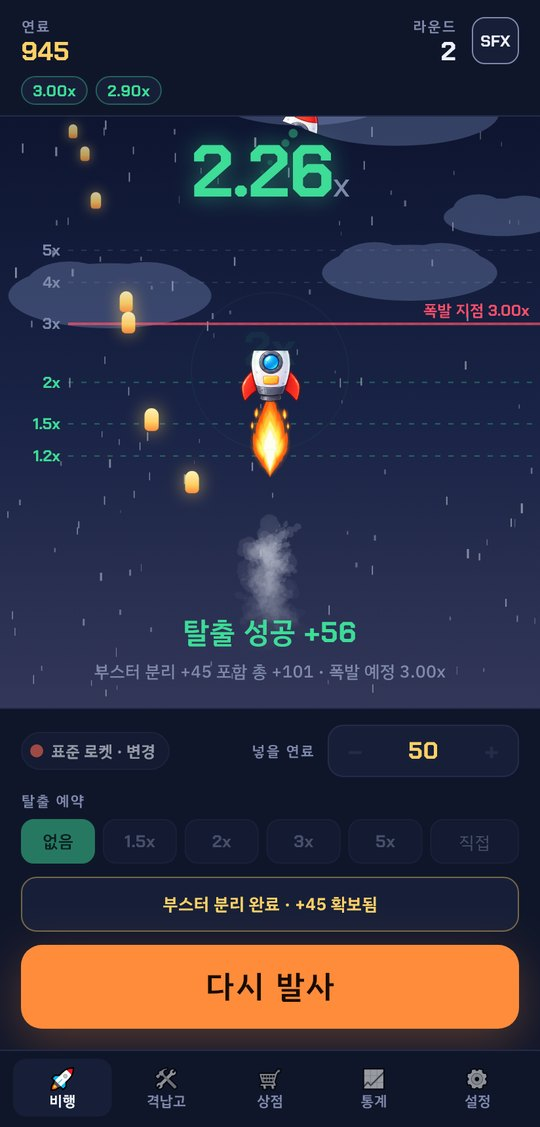
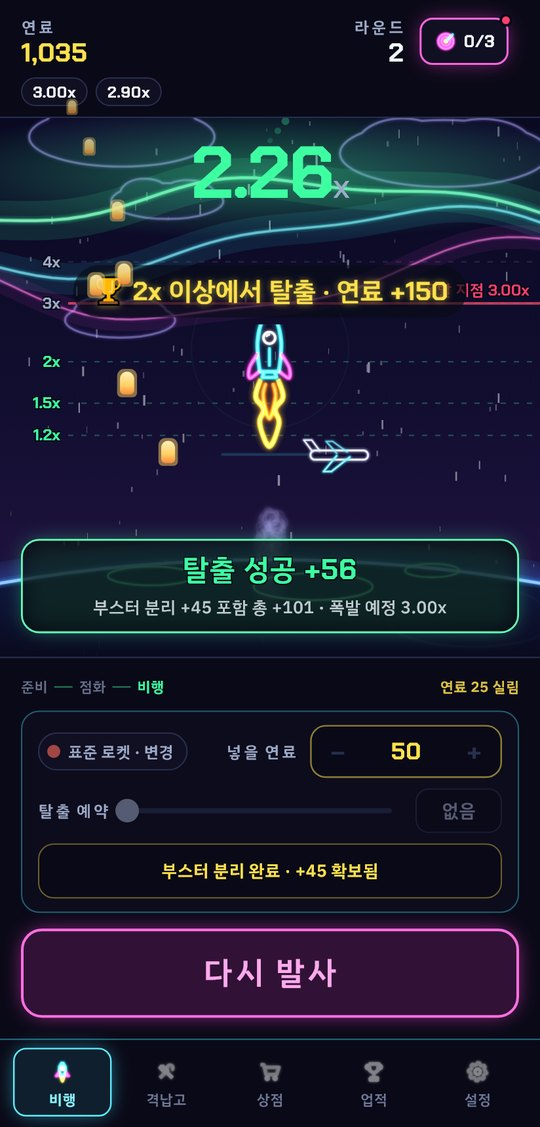
로켓 탈출 소개 페이지·썸네일을 네온사인 테마로
- 스크린샷 4장을 실제 게임 네온 렌더로 바꾸고 고스트 레이스 화면을 더했다.
- 게임 목록 썸네일(1024x500): 네온 로켓·제목·배수.
- 소개 페이지 머리 색조를 노을 주황 → 남보라 밤 + 자홍 빛, 강조색 청록·자홍. 게임 목록 카드 강조색도 청록.

diff --git a/rocketescape/index.html b/rocketescape/index.html
@@ -19,12 +19,14 @@
 <link rel="stylesheet" href="../games/game.css">
 
 <style>
-  /* 머리: 노을에서 심우주로 */
+  /* 머리: 네온사인 밤하늘 (게임 화면과 같은 남보라 + 아래 자홍 빛) */
   .hero {
     background:
-      radial-gradient(90% 70% at 50% 115%, rgba(255, 140, 58, .22), transparent 60%),
-      linear-gradient(180deg, #05040e 0%, #101c3e 70%, #2d3f6e 130%);
+      radial-gradient(90% 70% at 50% 115%, rgba(255, 63, 216, .22), transparent 60%),
+      radial-gradient(60% 50% at 50% 0%, rgba(56, 232, 255, .10), transparent 70%),
+      linear-gradient(180deg, #05040d 0%, #0b0b2a 70%, #1e1646 130%);
   }
+  .hero .title { text-shadow: 0 0 18px rgba(56, 232, 255, .55); }
   .hero .cta { margin: 4px 0 22px; }
   .hero .btn { font-size: 1rem; }
 
@@ -43,8 +45,8 @@
     background: hsl(var(--game-hue) 90% 55% / .12);
     color: var(--heading);
   }
-  .loop span.ok  { background: rgba(61, 220, 151, .14); color: #3ddc97; }
-  .loop span.bad { background: rgba(255, 79, 106, .14); color: #ff4f6a; }
+  .loop span.ok  { background: rgba(61, 255, 162, .14); color: #3dffa2; }
+  .loop span.bad { background: rgba(255, 63, 110, .14); color: #ff3f6e; }
   .loop em { font-style: normal; color: var(--muted); }
 
   .pull {
@@ -70,7 +72,8 @@
   .shots img {
     width: 100%;
     border-radius: 14px;
-    border: 1px solid var(--line);
+    border: 1px solid rgba(56, 232, 255, .45);
+    box-shadow: 0 0 18px rgba(56, 232, 255, .18);
     background: var(--bg-soft);
   }
   .shots figcaption {
@@ -110,8 +113,8 @@
 </style>
 </head>
 
-<!-- 엔진 불꽃 주황 -->
-<body style="--game-accent:#ff8c3a; --game-accent2:#ffd166; --game-hue:25">
+<!-- 네온 청록 + 자홍 -->
+<body style="--game-accent:#38e8ff; --game-accent2:#ff3fd8; --game-hue:188">
 
 <div class="topbar">
   <div class="wrap">
@@ -221,6 +224,10 @@
       <figure>
         <img src="assets/escaped.jpg" alt="탈출에 성공하고 원래 폭발 지점 선이 표시된 화면" loading="lazy">
         <figcaption>탈출, 그리고 폭발 지점</figcaption>
+      </figure>
+      <figure>
+        <img src="assets/race.jpg" alt="다른 사람의 지난 비행 기록과 함께 나는 고스트 레이스 화면" loading="lazy">
+        <figcaption>고스트 레이스</figcaption>
       </figure>
       <figure>
         <img src="assets/hangar.jpg" alt="기체를 고르고 능력치를 강화하는 격납고 화면" loading="lazy">

diff --git a/js/games.js b/js/games.js
@@ -101,7 +101,7 @@ const GAMES = [
     play: "/rocketescape/play/",
     about: "/rocketescape/",
     thumb: "/assets/images/rocketescape.png",
-    accent: "#ff8c3a",
+    accent: "#38e8ff",
     portrait: true
   },
   {
